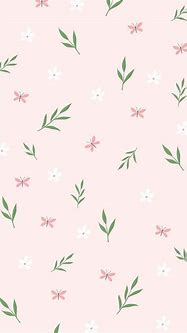
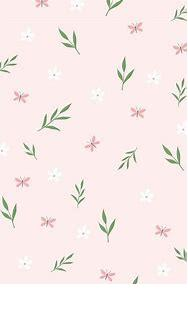
CHENGE THE codes

diff --git a/Products/wwwroot/css/site.css b/Products/wwwroot/css/site.css
@@ -1,5 +1,6 @@
 html {
   font-size: 14px;
+
 }
 
 @media (min-width: 768px) {
@@ -19,4 +20,10 @@ html {
 
 body {
   margin-bottom: 60px;
+}
+body {
+    background-image: url('/img/Bg.jpg');
+    background-repeat: no-repeat;
+    background-size: cover;
+    background-position: center;
 }
